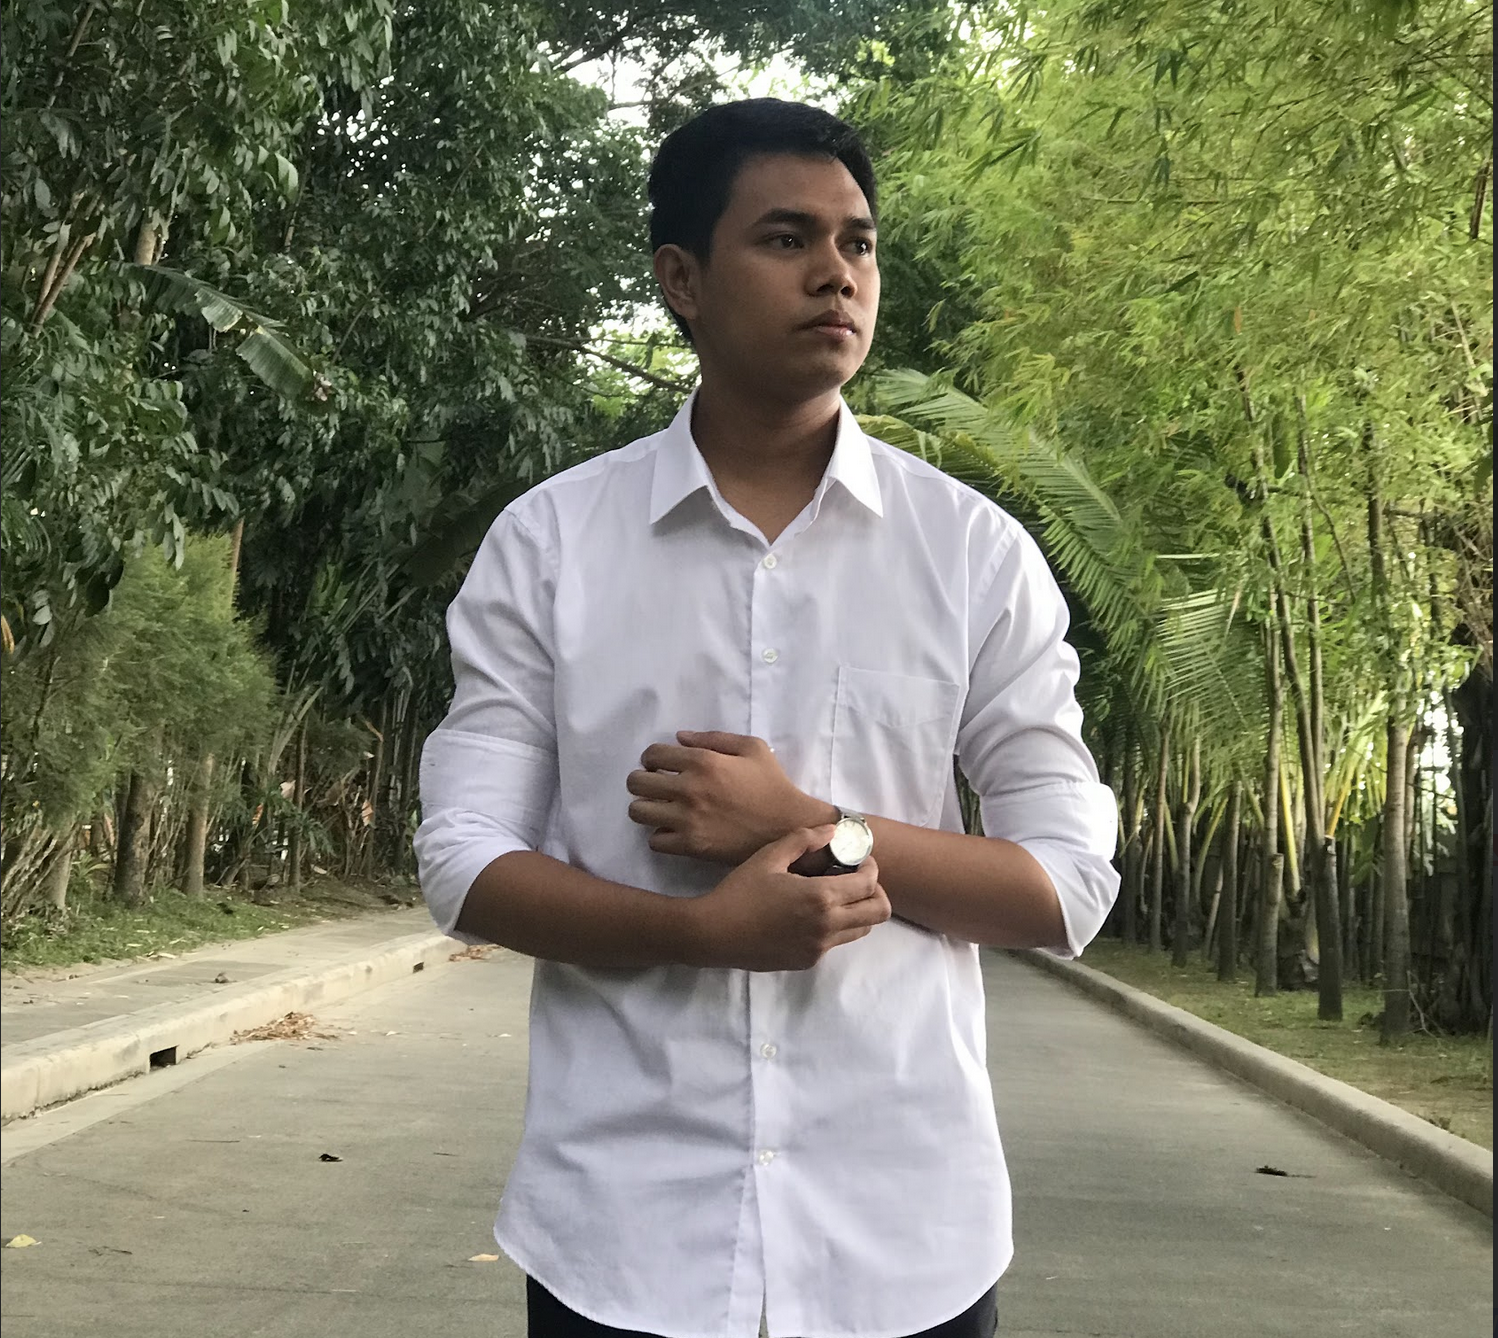
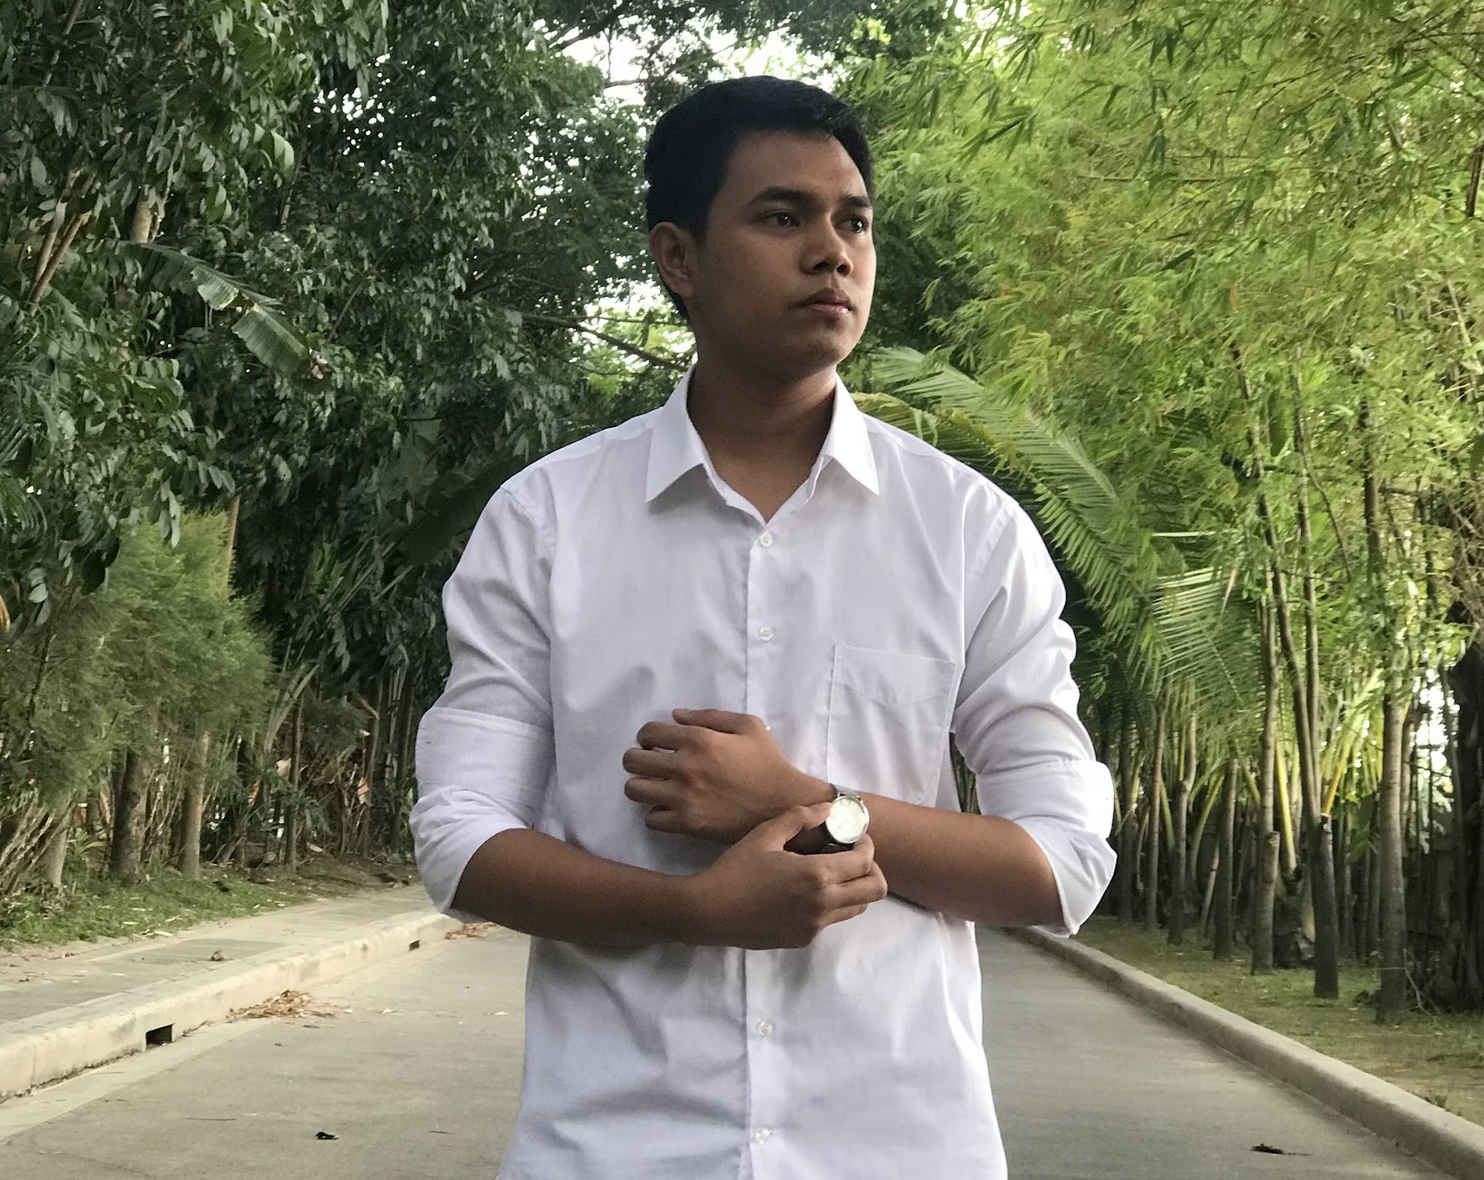
Minor changes

diff --git a/src/components/Sections/AboutSection.jsx b/src/components/Sections/AboutSection.jsx
@@ -16,7 +16,7 @@ const AboutSection = () => {
             <img
               src="/images/Joshua.png"
               alt="mockup"
-              className="border-b-4 border-black w-full"
+              className="border-b-4 border-black w-screen"
             />
             <div className="border-gray border-8"></div>
           </div>
